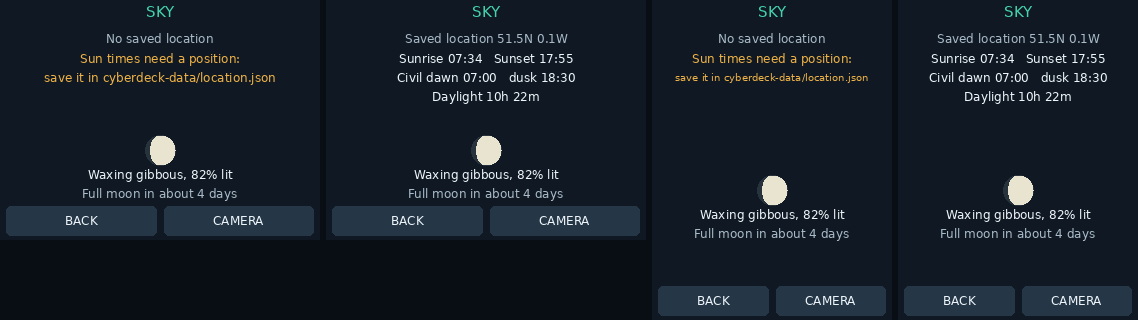
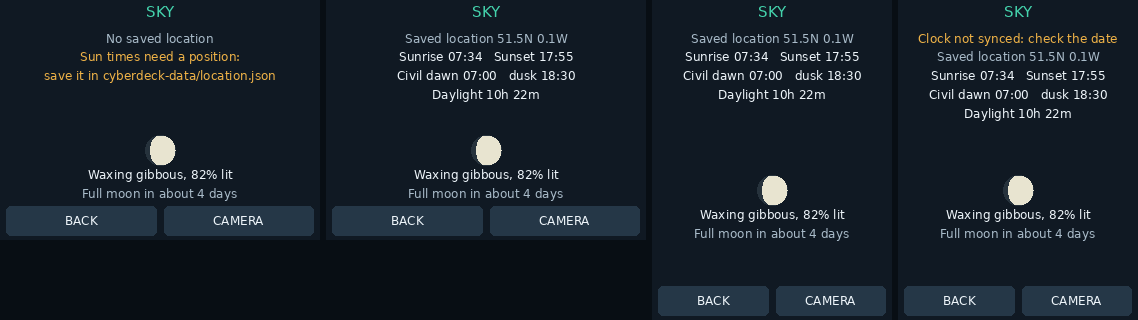
Sun & moon: warn when the clock isn't synced
Without an RTC an offline Pi keeps the last saved time, so the page
would show sun and moon for the wrong date as if correct. It now shows
'Clock not synced: check the date' unless NTP reports synchronized, and
the guide notes the local-date limit for far-away saved locations.

Claude-Session: https://claude.ai/code/session_016w3uQjEr2ZwcCKuYp4Kst7

diff --git a/panel_tools/sky.py b/panel_tools/sky.py
@@ -74,10 +74,17 @@ def position_label(lat, lon):
     return f"{abs(lat):.1f}{'N' if lat >= 0 else 'S'} {abs(lon):.1f}{'E' if lon >= 0 else 'W'}"
 
 
-def sky_lines(wall_time, location):
-    """Text rows for the SKY page; the moon needs no position, the sun does."""
+def sky_lines(wall_time, location, sync='Unknown'):
+    """Text rows for the SKY page; the moon needs no position, the sun does.
+
+    sync is the health poller's NTP state. Without an RTC an offline Pi keeps the last
+    saved time, so every answer here is for the wrong day unless the clock is synced.
+    """
     if wall_time.tzinfo is None:
         wall_time = wall_time.astimezone()  # A naive time is the Pi's local time.
+    clock_note = None if sync == 'Synchronized' else (
+        'Clock not synced: check the date' if sync == 'Not synchronized'
+        else 'Clock sync unknown: check the date')
     _, lit, name, to_full, to_new = moon_phase(wall_time)
     moon = f'{name}, {lit*100:.0f}% lit'
     nearer, days = ('Full', to_full) if to_full < to_new else ('New', to_new)
@@ -86,7 +93,7 @@ def sky_lines(wall_time, location):
                 f"{nearer} moon in about {days} day{'s' if days > 1 else ''}")
     if location is None:
         return {'where': 'No saved location', 'sun': [], 'moon': moon, 'next': upcoming, 'lit': lit,
-                'waxing': to_full < to_new}
+                'waxing': to_full < to_new, 'clock': clock_note}
     lat, lon = location
     zone = wall_time.tzinfo
     day = wall_time.date()
@@ -110,4 +117,4 @@ def sky_lines(wall_time, location):
            else 'Civil twilight: ' + ('no full dark' if dawn == 'up' else 'none'),
            daylight]
     return {'where': 'Saved location ' + position_label(lat, lon), 'sun': sun, 'moon': moon,
-            'next': upcoming, 'lit': lit, 'waxing': to_full < to_new}
+            'next': upcoming, 'lit': lit, 'waxing': to_full < to_new, 'clock': clock_note}

diff --git a/tools/render_tools.py b/tools/render_tools.py
@@ -40,16 +40,19 @@ def main():
                     ui.page=page
                     canvas.paste(ui.render(10,datetime(2026,10,10,12,30),()),(i%3*app.W,i//3*app.H))
                 canvas.save(target/f'tools-{rotation}.png')
-            # Sun & moon: no saved location, then a saved one, in both orientations.
+            # Sun & moon: landscape without and with a saved location; portrait with one,
+            # then with the clock not synced.
             ui.page,sheet,x='sky',Image.new('RGB',(320*2+240*2+18,320),'#080e14'),0
             when=datetime(2026,10,21,21,0,tzinfo=timezone(timedelta(hours=1)))  # London summer time
-            for rotation in (0,90):
+            london='{"lat": 51.51, "lon": -0.13}'
+            for rotation,location,sync in ((0,None,'Synchronized'),(0,london,'Synchronized'),
+                                           (90,london,'Synchronized'),(90,london,'Not synchronized')):
                 app.set_rotation(rotation)
-                for location in (None,'{"lat": 51.51, "lon": -0.13}'):
-                    path=data/'location.json'
-                    path.unlink(missing_ok=True)
-                    if location: path.write_text(location)
-                    sheet.paste(ui.render(10,when,()),(x,0)); x+=app.W+6
+                ui.rows={**ui.rows,'sync':sync}
+                path=data/'location.json'
+                path.unlink(missing_ok=True)
+                if location: path.write_text(location)
+                sheet.paste(ui.render(10,when,()),(x,0)); x+=app.W+6
             sheet.save(target/'sky-preview.png')
         finally:
             ui.close(); app.set_rotation(0)

diff --git a/tests/test_sky.py b/tests/test_sky.py
@@ -95,6 +95,15 @@ class LocationTest(unittest.TestCase):
         self.assertEqual(polar['sun'][0], 'Sunrise sun up all day   Sunset sun up all day')
 
 
+class ClockTest(unittest.TestCase):
+    def test_unsynced_clock_is_flagged(self):
+        moment = datetime(2026, 10, 10, 12, tzinfo=UTC)
+        self.assertIsNone(sky.sky_lines(moment, LONDON, 'Synchronized')['clock'])
+        self.assertEqual(sky.sky_lines(moment, LONDON, 'Not synchronized')['clock'],
+                         'Clock not synced: check the date')
+        self.assertEqual(sky.sky_lines(moment, None)['clock'], 'Clock sync unknown: check the date')
+
+
 class SkyPageTest(unittest.TestCase):
     def tearDown(self):
         app.set_rotation(0)
@@ -111,8 +120,10 @@ class SkyPageTest(unittest.TestCase):
                 sky_button = next(rect for rect, action in ui.rects if action == 'go:sky')
                 ui.tap((sky_button[0]+sky_button[2])/2, (sky_button[1]+sky_button[3])/2, 0)
                 self.assertEqual(ui.page, 'sky')
-                for degrees in (0, 90):
+                for degrees, sync in ((0, 'Synchronized'), (90, 'Synchronized'),
+                                      (0, 'Not synchronized'), (90, 'Unknown')):
                     app.set_rotation(degrees)
+                    ui.rows = {'sync': sync}
                     (data/'location.json').unlink(missing_ok=True)
                     self.assertEqual(ui.render(0, datetime(2026, 10, 10, 12, 30), ()).size, (app.W, app.H))
                     (data/'location.json').write_text('{"lat": 51.5, "lon": -0.13}')

diff --git a/panel_tools/ui.py b/panel_tools/ui.py
@@ -202,13 +202,16 @@ class ToolsUI:
                 line(y,text)
         elif self.page == 'sky':
             # Read on each draw: the file is tiny and editing it takes effect at once.
-            info = sky.sky_lines(wall_time, sky.load_location(self.data/'location.json'))
-            line(38, info['where'], a.MUTED)
+            info = sky.sky_lines(wall_time, sky.load_location(self.data/'location.json'),
+                                 self.rows.get('sync', 'Unknown'))
+            line(38, info['clock'] or info['where'], a.WARN if info['clock'] else a.MUTED)
             rows = info['sun'] or ['Sun times need a position:',
                                    'save it in cyberdeck-data/location.json']
-            for y, text in zip(range(58, 120, 19), rows):
-                line(y, text, None if info['sun'] else a.WARN)
-            moon_y = max(122, (bottom+120)//2-26)
+            if info['clock']:  # The warning takes the top line; the position moves down.
+                rows = [info['where']] + rows
+            for y, text in zip(range(56, 132, 19), rows):
+                line(y, text, a.MUTED if text == info['where'] else None if info['sun'] else a.WARN)
+            moon_y = max(126 if info['clock'] else 122, (bottom+120)//2-26)
             self.draw_moon(d, (a.W//2, moon_y+16), 15, info['lit'], info['waxing'])
             line(moon_y+40, info['moon'])
             line(moon_y+59, info['next'], a.MUTED)

diff --git a/docs/TOOLS.md b/docs/TOOLS.md
@@ -98,6 +98,12 @@ says **No saved location** and shows no sun times rather than guessing a city.
 
 Times are in the Pi's time zone and good to a minute or two; the moon phase can be
 up to half a day off. Near the poles the page says when the sun stays up or down all day.
+Sun times are for the Pi's local date, so a saved location far from the Pi's time zone
+can show the neighbouring day's sunrise or sunset.
+
+Everything here depends on the Pi's date. Until a real-time clock is fitted, a Pi that
+starts without network keeps the last saved time, so the page shows **Clock not synced:
+check the date** in orange whenever the clock hasn't been set from the network.
 
 ## Photo zoom and sharing
 
